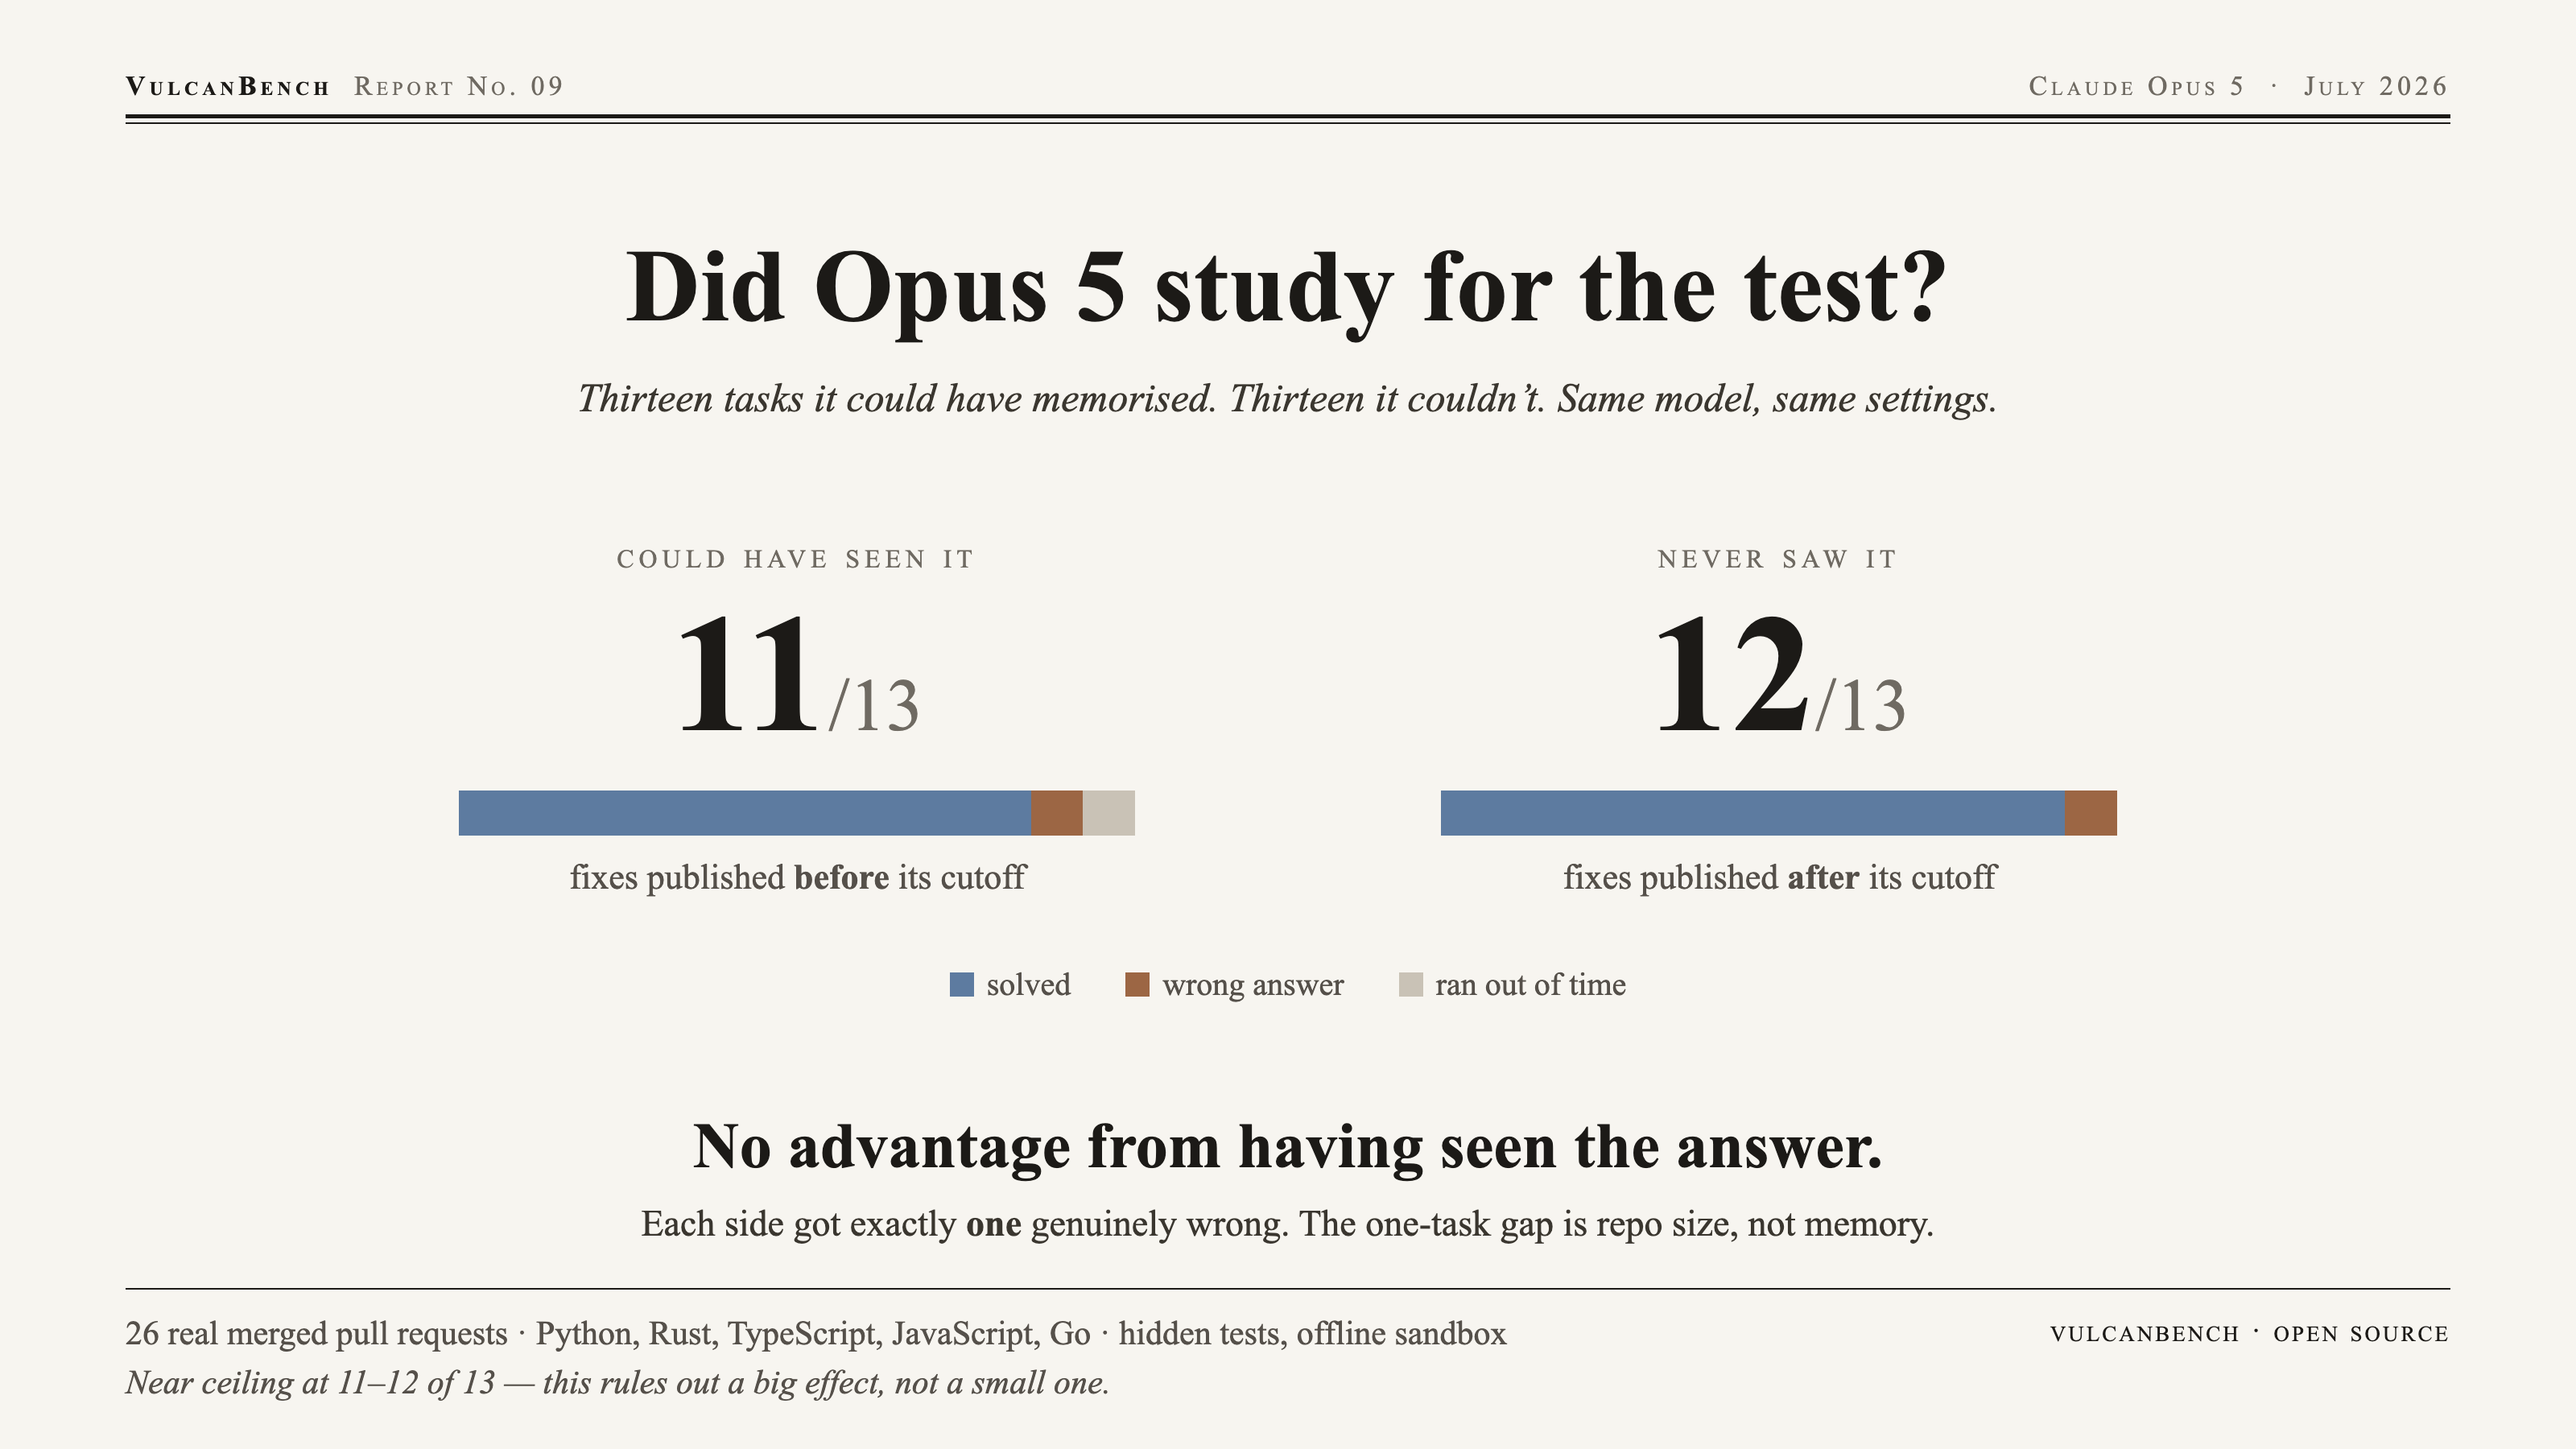
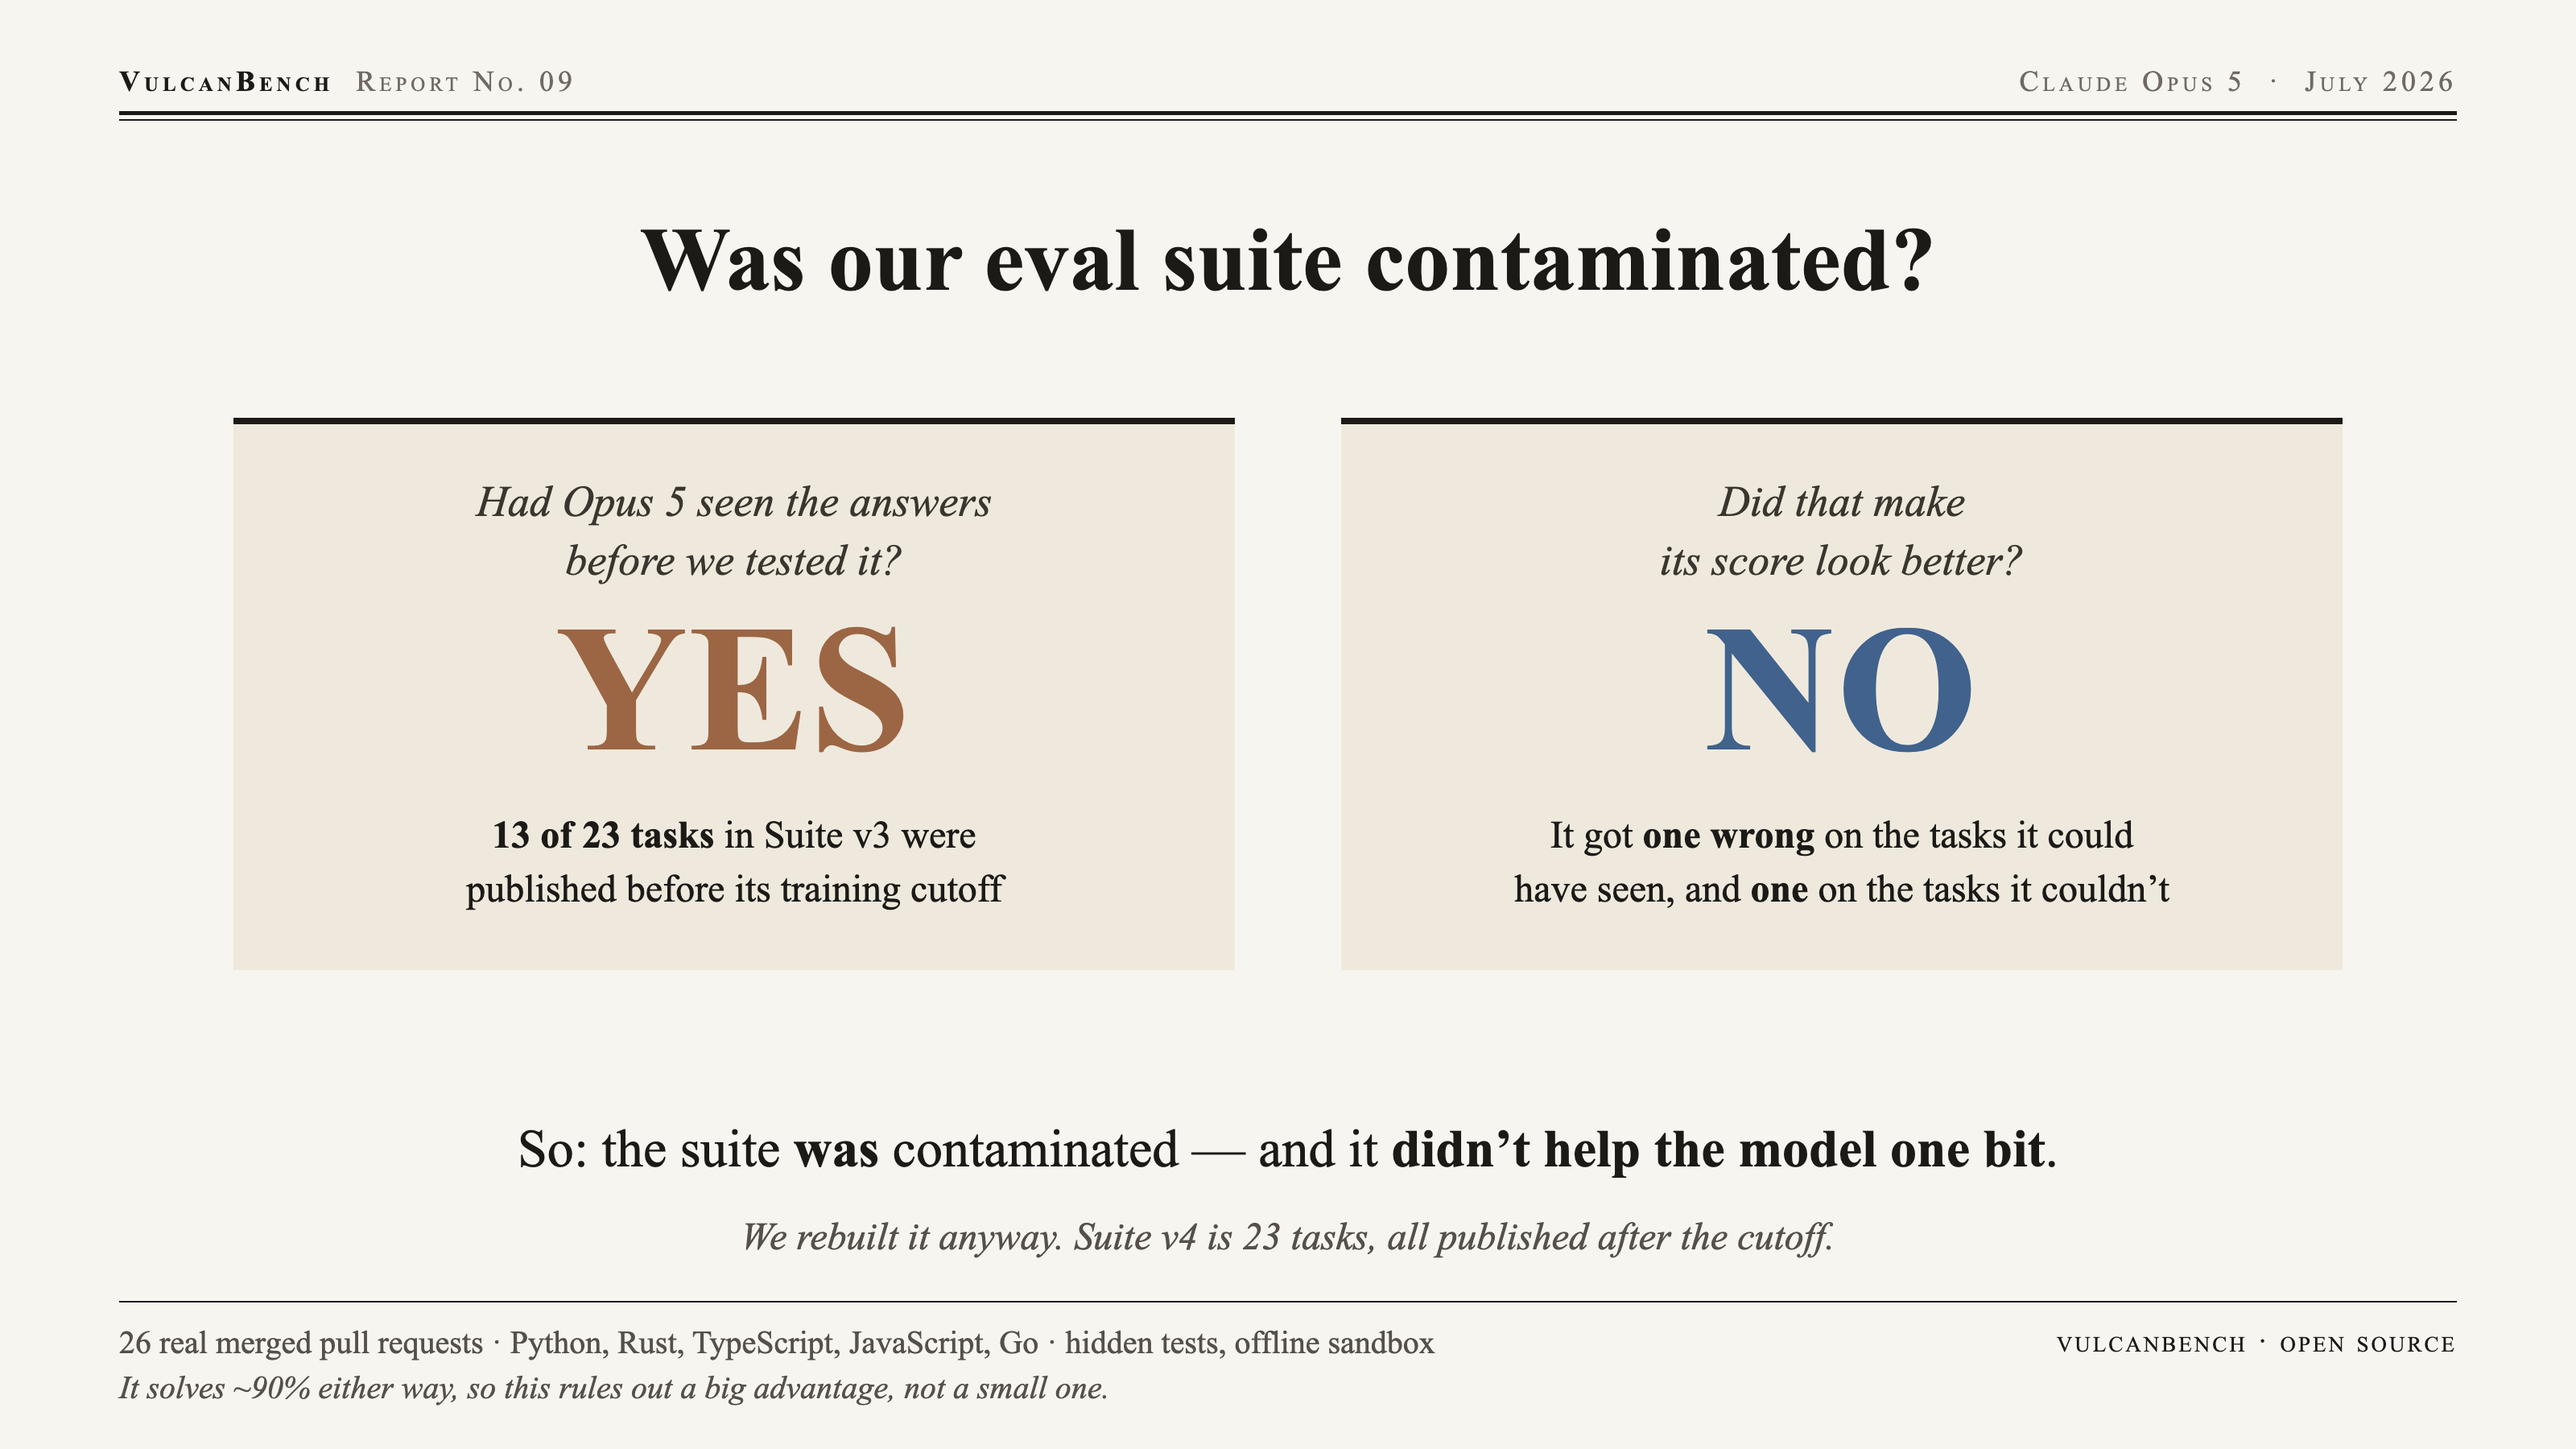
docs/results: rebuild the X card so the verdict is unmissable
The previous version led with two scores, 11/13 and 12/13, and expected the
reader to work out that a one-task difference was noise. At a glance it reads as
a gap -- the opposite of the finding -- and it never actually answered the
question anyone has about a contaminated suite.

Restructured as the two questions that matter, with the answers in 112px:

  Had Opus 5 seen the answers before we tested it?   YES  (13 of 23 tasks)
  Did that make its score look better?                NO  (one wrong each side)

Both halves are true and neither alone is the story. The suite genuinely was
contaminated -- that is a fact about publication dates, not a measurement -- and
the contamination did not move the score. Leading with only the first is alarmist;
leading with only the second sounds like a denial that anything was wrong.

Scores are gone from the card entirely. "One wrong on the tasks it could have
seen, one on the tasks it couldn't" is the same fact in a form that survives a
scroll, and it does not invite the reader to subtract 11 from 12.

Closes with what was done about it: v4 exists, 23 tasks, all post-cutoff. The
near-ceiling caveat stays in the footer -- it solves ~90% either way, so this
rules out a big advantage, not a small one.

diff --git a/docs/results/v4-contamination-2026-07/card-x.html b/docs/results/v4-contamination-2026-07/card-x.html
@@ -3,78 +3,60 @@
 * { box-sizing: border-box; margin: 0; padding: 0; }
 html, body { width: 1600px; height: 900px; }
 body { font-family: "Times New Roman", Times, Georgia, serif; background: #f7f5f0; color: #1c1a17; }
-.page { width: 1600px; height: 900px; padding: 44px 78px 30px; position: relative; }
+.page { width: 1600px; height: 900px; padding: 40px 74px 28px; position: relative; }
 .masthead { display: flex; justify-content: space-between; align-items: baseline;
-  font-variant: small-caps; letter-spacing: 2.5px; font-size: 17px; color: #6f6a62; }
+  font-variant: small-caps; letter-spacing: 2.5px; font-size: 18px; color: #6f6a62; }
 .masthead b { color: #1c1a17; font-weight: 600; }
 .rule2 { border-top: 2.5px solid #1c1a17; margin-top: 8px; }
 .rule1 { border-top: 1px solid #1c1a17; margin-top: 2.5px; }
 
-h1 { text-align: center; font-size: 64px; font-weight: 600; margin-top: 64px; letter-spacing: 0.2px; }
-.deck { text-align: center; font-style: italic; font-size: 25px; margin-top: 18px; color: #3a362f; }
+h1 { text-align: center; font-size: 56px; font-weight: 600; margin-top: 54px; }
 
-.board { display: grid; grid-template-columns: 1fr 1fr; gap: 120px; margin: 70px auto 0; width: 1100px; }
-.arm { text-align: center; }
-.armlabel { font-variant: small-caps; letter-spacing: 3px; font-size: 23px; color: #6f6a62; }
-.score { font-size: 104px; font-weight: 600; line-height: 1.05; margin-top: 6px; font-variant-numeric: tabular-nums; }
-.score span { font-size: 46px; color: #6f6a62; font-weight: 400; }
-.bar { display: flex; height: 28px; width: 420px; margin: 18px auto 0; }
-.bar i { display: block; height: 100%; }
-.detail { font-size: 22px; color: #55504a; margin-top: 13px; }
+.qs { display: grid; grid-template-columns: 1fr 1fr; gap: 66px; margin: 66px auto 0; width: 1310px; }
+.q { text-align: center; padding: 30px 22px 34px; background: #efe9dd; border-top: 4px solid #1c1a17; }
+.qtext { font-size: 27px; font-style: italic; color: #3a362f; min-height: 76px; line-height: 1.35; }
+.ans { font-size: 112px; font-weight: 700; line-height: 1; margin-top: 2px; letter-spacing: 1px; }
+.yes { color: #9c6644; }
+.no  { color: #40628c; }
+.because { font-size: 24px; margin-top: 18px; line-height: 1.4; }
+.because b { font-weight: 700; }
 
-.verdict { text-align: center; margin-top: 66px; }
-.verdict .big { font-size: 40px; font-weight: 600; }
-.verdict .sub { font-size: 23px; margin-top: 12px; color: #3a362f; }
-.verdict .sub b { font-weight: 600; }
+.verdict { text-align: center; margin-top: 88px; font-size: 33px; line-height: 1.4; }
+.verdict b { font-weight: 700; }
+.verdict .fix { display: block; font-size: 24px; font-style: italic; color: #55504a; margin-top: 14px; }
 
-.foot { position: absolute; left: 78px; right: 78px; bottom: 26px;
-  border-top: 1px solid #1c1a17; padding-top: 12px; font-size: 21px;
-  color: #55504a; line-height: 1.45; display: flex; justify-content: space-between; gap: 40px; }
+.foot { position: absolute; left: 74px; right: 74px; bottom: 24px;
+  border-top: 1px solid #1c1a17; padding-top: 11px; font-size: 20px;
+  color: #55504a; line-height: 1.4; display: flex; justify-content: space-between; gap: 40px; }
 .foot .brand { white-space: nowrap; text-align: right; font-variant: small-caps;
   letter-spacing: 1.5px; color: #1c1a17; font-size: 19px; }
-.key { display: flex; justify-content: center; gap: 34px; font-size: 20px; color: #55504a; margin-top: 42px; }
-.key span { display: inline-flex; align-items: center; gap: 8px; }
-.sw { width: 15px; height: 15px; display: inline-block; }
 </style></head><body>
 <div class="page">
   <div class="masthead"><span><b>VulcanBench</b> &nbsp;Report No. 09</span><span>Claude Opus 5 &nbsp;&middot;&nbsp; July 2026</span></div>
   <div class="rule2"></div><div class="rule1"></div>
 
-  <h1>Did Opus&nbsp;5 study for the test?</h1>
-  <div class="deck">Thirteen tasks it could have memorised. Thirteen it couldn&rsquo;t. Same model, same settings.</div>
+  <h1>Was our eval suite contaminated?</h1>
 
-  <div class="board">
-    <div class="arm">
-      <div class="armlabel">could have seen it</div>
-      <div class="score">11<span>/13</span></div>
-      <div class="bar">
-        <i style="background:#5d7ba0; width:84.6%"></i><i style="background:#9c6644; width:7.7%"></i><i style="background:#c9c2b6; width:7.7%"></i>
-      </div>
-      <div class="detail">fixes published <b>before</b> its cutoff</div>
+  <div class="qs">
+    <div class="q">
+      <div class="qtext">Had Opus&nbsp;5 seen the answers<br>before we tested it?</div>
+      <div class="ans yes">YES</div>
+      <div class="because"><b>13 of 23 tasks</b> in Suite&nbsp;v3 were<br>published before its training cutoff</div>
     </div>
-    <div class="arm">
-      <div class="armlabel">never saw it</div>
-      <div class="score">12<span>/13</span></div>
-      <div class="bar">
-        <i style="background:#5d7ba0; width:92.3%"></i><i style="background:#9c6644; width:7.7%"></i>
-      </div>
-      <div class="detail">fixes published <b>after</b> its cutoff</div>
+    <div class="q">
+      <div class="qtext">Did that make<br>its score look better?</div>
+      <div class="ans no">NO</div>
+      <div class="because">It got <b>one wrong</b> on the tasks it could<br>have seen, and <b>one</b> on the tasks it couldn&rsquo;t</div>
     </div>
-  </div>
-
-  <div class="key">
-    <span><span class="sw" style="background:#5d7ba0"></span>solved</span>
-    <span><span class="sw" style="background:#9c6644"></span>wrong answer</span>
-    <span><span class="sw" style="background:#c9c2b6"></span>ran out of time</span>
   </div>
 
   <div class="verdict">
-    <div class="big">No advantage from having seen the answer.</div>
-    <div class="sub">Each side got exactly <b>one</b> genuinely wrong. The one-task gap is repo size, not memory.</div>
+    So: the suite <b>was</b> contaminated &mdash; and it <b>didn&rsquo;t help the model one bit</b>.
+    <span class="fix">We rebuilt it anyway. Suite v4 is 23 tasks, all published after the cutoff.</span>
   </div>
 
   <div class="foot">
-    <div>26 real merged pull requests &middot; Python, Rust, TypeScript, JavaScript, Go &middot; hidden tests, offline sandbox<br><i>Near ceiling at 11&ndash;12 of 13 &mdash; this rules out a big effect, not a small one.</i></div>
+    <div>26 real merged pull requests &middot; Python, Rust, TypeScript, JavaScript, Go &middot; hidden tests, offline sandbox<br><i>It solves ~90% either way, so this rules out a big advantage, not a small one.</i></div>
     <div class="brand">vulcanbench &middot; open source</div>
   </div>
 </div>
